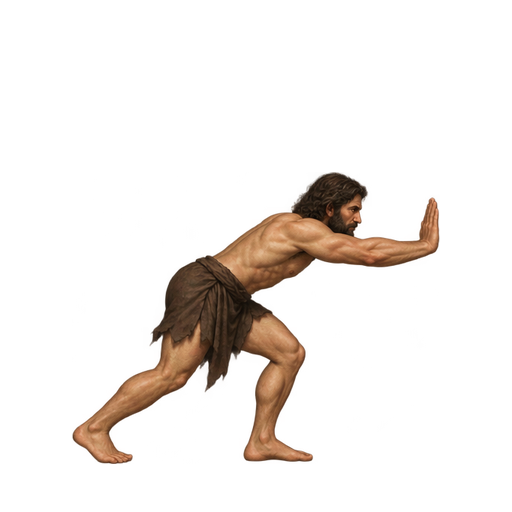
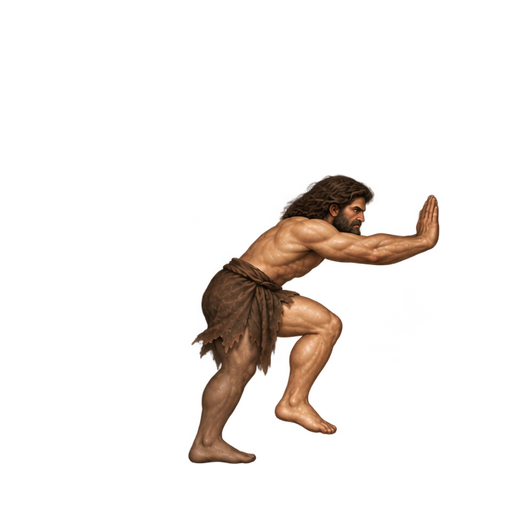
fix: alternate both legs in pushing animations
Replace repeated lunges with bilateral contact and passing poses. Verify every rendered frame and loop wrap; preserve gameplay timing and physics.

Constraint: Preserve existing frame counts, pivots and FPS

Confidence: high

Scope-risk: narrow

Changed region(s): [[0.125, 0.3125, 0.875, 0.9062]]

diff --git a/tools/pack-character-assets.py b/tools/pack-character-assets.py
@@ -16,6 +16,10 @@ for source in sources:
     name = source['name']
     count = 8 if name == 'push' else 6
     cols = 4 if name == 'push' else 3
+    overrides = source.get('frame_overrides', {})
+    invalid_indices = set(overrides) - {str(i) for i in range(1, count + 1)}
+    if invalid_indices:
+        raise ValueError(f'{name} frame_overrides indices must be 1..{count}: {sorted(invalid_indices)}')
     src = Image.open(source['path']).convert('RGBA')
     frames = []
     for i in range(count):
@@ -25,7 +29,17 @@ for source in sources:
         bbox = cell.getchannel('A').point(lambda a: 255 if a > 16 else 0).getbbox()
         if not bbox:
             raise ValueError(f'{name} frame {i+1} has no artwork')
-        frames.append(cell.crop(bbox))
+        frame = cell.crop(bbox)
+        override = overrides.get(str(i + 1))
+        if override is not None:
+            replacement = Image.open(override['path']).convert('RGBA')
+            replacement_bbox = replacement.getchannel('A').point(lambda a: 255 if a > 16 else 0).getbbox()
+            if not replacement_bbox:
+                raise ValueError(f'{name} frame {i+1} override has no artwork')
+            replacement = replacement.crop(replacement_bbox)
+            replacement_width = max(1, round(replacement.width * frame.height / replacement.height))
+            frame = replacement.resize((replacement_width, frame.height), Image.Resampling.LANCZOS)
+        frames.append(frame)
     # Use one scale per animation to preserve pose/size differences, never fit each frame independently.
     target_height = {'idle': 396, 'push': 318, 'heavy_push': 292, 'brace': 348, 'exhausted': 310}[name]
     scale = min(target_height / max(f.height for f in frames), 432 / max(f.width for f in frames))
@@ -55,4 +69,8 @@ dest = ROOT / 'assets/metadata'
 dest.mkdir(parents=True,exist_ok=True)
 (dest/'sisyphus_animations.json').write_text(json.dumps(metadata,ensure_ascii=False,indent=2)+'\n',encoding='utf-8')
 prompts = [{'asset':s['name'],'prompt':s['prompt'],'tool':'built-in image_gen'} for s in sources]
+for source, prompt in zip(sources, prompts):
+    if source.get('frame_overrides'):
+        prompt['frame_overrides'] = {index: {'prompt': override['prompt']}
+                                     for index, override in source['frame_overrides'].items()}
 (ROOT/'docs/image-prompts-character.json').write_text(json.dumps(prompts,ensure_ascii=False,indent=2)+'\n',encoding='utf-8')

diff --git a/README_ASSETS.md b/README_ASSETS.md
@@ -37,6 +37,8 @@ scripts/asset_preview.gd                      # 독립 프리뷰
 
 모두 오른쪽을 바라보며 반복 재생한다. 캔버스는 512×512, 기준점은 **(256, 464)**, 발바닥 기준선은 **y=464**다. 애니메이션별 한 가지 배율을 적용하여 프레임마다 임의로 체형을 늘리지 않았다. 일반/강한 밀기는 손의 오른쪽 끝도 정렬했다. 자세에 따라 보이는 몸 높이는 달라진다.
 
+2026-10-12: 일반 밀기 8장과 강한 밀기 6장을 양발 교대 보행으로 교체했다. 가까운 다리와 먼 다리가 각각 뒤로 밀기 → 발 들기 → 앞으로 내딛기를 수행한다. `tests/asset_visual_verification.gd`는 전체 프레임 순서와 반복 복귀를 검사하며, `--capture`에서 게임 화면의 `game-push-01..08`과 `game-exert-01..06`을 저장한다. 실제 다리 교대는 전체 시트를 별도로 육안 검토한다.
+
 `AnimatedSprite2D`에는 `godot/resources/spriteframes/sisyphus.tres`를 지정하고 `centered=false`, `offset=Vector2(-256,-464)`를 사용한다. 좌우 반전은 기준점이 유지되도록 노드의 `scale.x`를 반전한다. 게임 본체는 기존 CanvasItem 렌더링을 유지하면서 같은 SpriteFrames에서 현재 프레임을 읽는다.
 
 ## 지형·돌·소품
